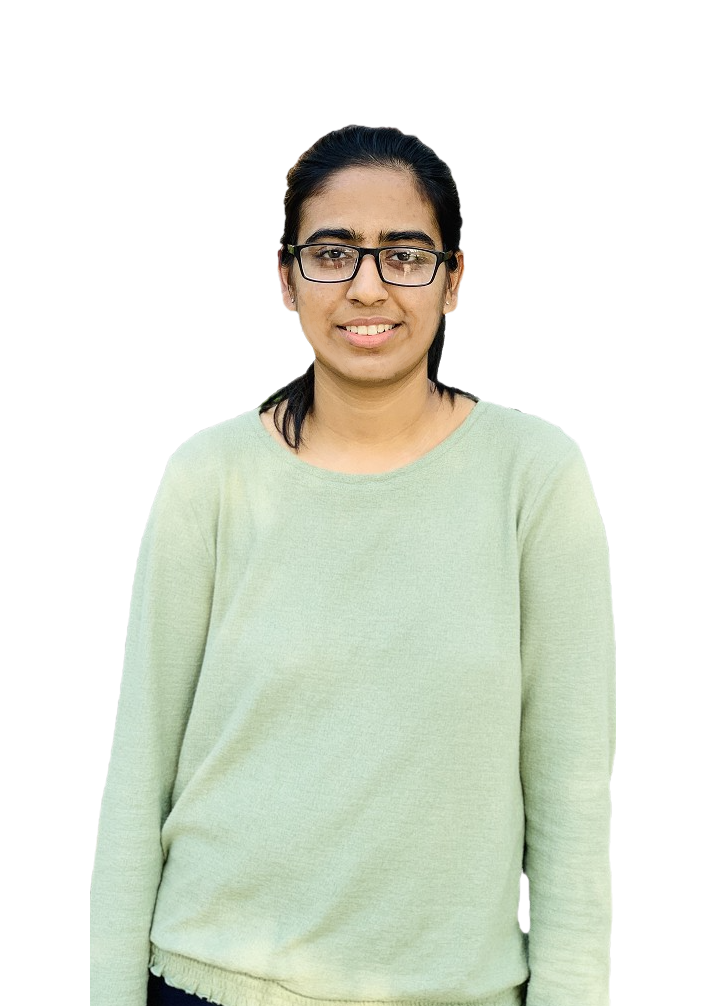
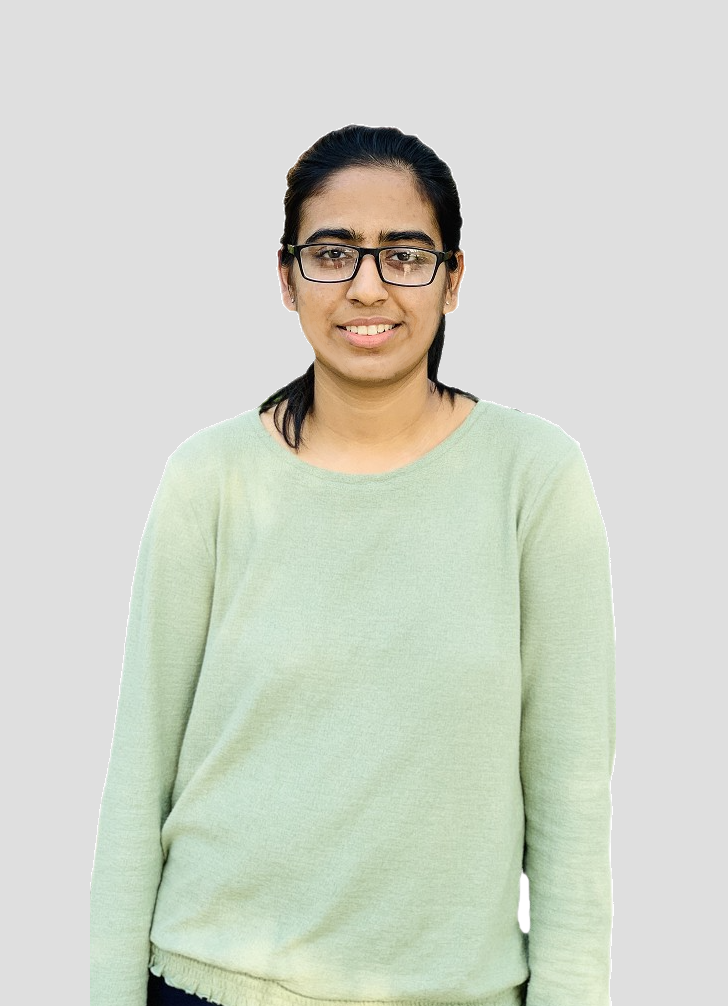
Mobile View Background Fix

diff --git a/src/App.css b/src/App.css
@@ -779,7 +779,7 @@ body {
     background:linear-gradient(
       rgba(0, 0, 0, 0),
       rgba(0, 0, 0, 0)
-    ), url('/images/potrait - ipad - Copy.png');
+    ), url('/images/potrait - ipad.png');
     background-repeat: no-repeat;
     background-size: cover;
   }
@@ -950,7 +950,7 @@ body {
     background:linear-gradient(
       rgba(0, 0, 0, 0),
       rgba(0, 0, 0, 0)
-    ), url('/images/potrait - phone - Copy.png');
+    ), url('/images/potrait - phone.png');
     background-repeat: no-repeat;
     background-size: cover;
   }
